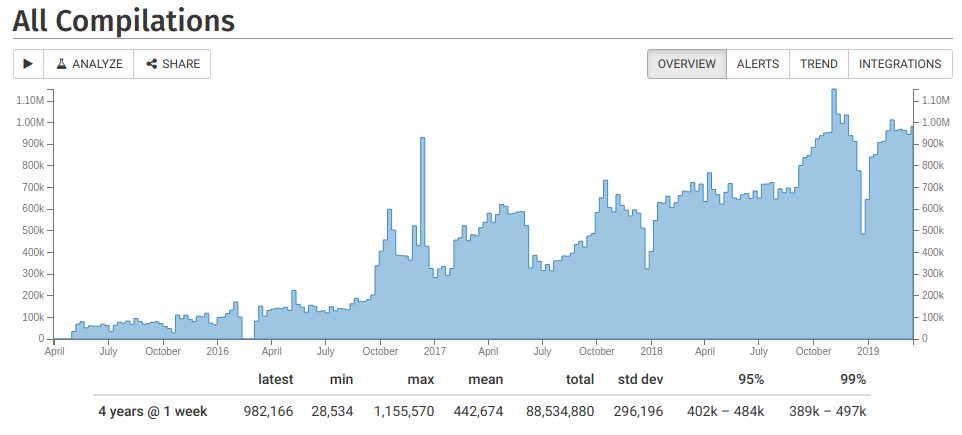
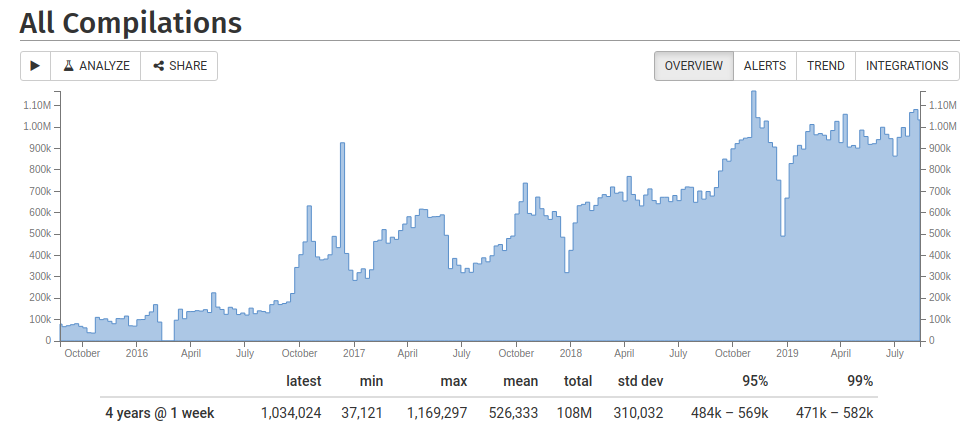
Beginning of work towards CppCon

Changed region(s): [[0.0, 0.0, 0.9979, 0.9954]]

diff --git a/index.html b/index.html
@@ -173,7 +173,7 @@
         }
 
         div.footer {
-            font-size: smaller;
+            font-size: 60%;
             font-style: italic;
             position: absolute;
             bottom: 1em;

diff --git a/intro.md b/intro.md
@@ -3,7 +3,7 @@
 
 * Intro & History
 * Assembly Primer
-* Top 5 Optimisations
+* Favourite Optimisations
 * Behind the Scenes
 * Stop and ask questions! <!-- .element: class="fragment" -->
 
@@ -14,23 +14,25 @@
 ## About me
 * Decade of making console games
 * Writing C++ tools
-* Google, YouTube mobile
+* Google, YouTube mobile</div><!-- .element: class="white-bg" -->
+
+
+<div>
+
+## Evolution: 2018
+
 * Finance
 * But then...<!-- .element: class="fragment" -->
 </div><!-- .element: class="white-bg" -->
 
 
 <div>
-## This happened...
 ![CE logo](images/CE.svg) <!-- .element: class="no-border stretch" -->
 </div><!-- .element: class="white-bg" -->
 
 
 <div>
 ## Origin Story
-
-* In 2012 I worked in low-latency trading
-* "Discussing" c++0x features<!-- .element: class="fragment" -->
 
 ```bash
 watch "g++ /tmp/test.cc -std=c++0x -O2 -c -S -o - -masm=intel \
@@ -64,28 +66,21 @@ watch "g++ /tmp/test.cc -std=c++0x -O2 -c -S -o - -masm=intel \
 
 <div>
 
-## Evolution
-* 2012
+## Evolution: 2012-2014
   * Colouration & filtering
-  * D language support
-* 2013
-  * Battle hardening
   * More compilers
-* 2014
-  * goo.gl short links
+  * D language support
   * Rust support
+  * goo.gl short links
 
 </div><!-- .element: class="white-bg" -->
 
 
 <div>
 
-## Evolution
-* 2015
+## Evolution: 2015-2017
   * Binary support
-* 2016
   * GoldenLayout
-* 2017
   * Monaco
   * Libraries
 </div><!-- .element: class="white-bg" -->
@@ -93,34 +88,42 @@ watch "g++ /tmp/test.cc -std=c++0x -O2 -c -S -o - -masm=intel \
 
 <div>
 
-## Evolution
-* 2018
+## Evolution: 2018
   * Unified languages
   * MS compilers
   * Tools windows
-* 2019
-  * Bug fixes
-  * Cache improvements
-  * 6502 support!
+
 </div><!-- .element: class="white-bg" -->
 
 
 <div>
 
-## Evolution
+## Evolution: 2019
+  * 6502 support! <!-- .element: class="fragment" -->
+  * Code execution! <!-- .element: class="fragment" -->
+  
+</div><!-- .element: class="white-bg" -->
 
-* Tools:
+
+<div>
+
+## Evolution: Tools
   * `clang-tidy`
   * `llvm-mca`
   * `pahole`
-* Views
-  * `opt` output
-  * clang AST & IR
-  * gcc Tree & IR
-  * control flow graph
+  * `clang-query`
+  * `readelf`
+  * `x86-to-6502`
 
 </div><!-- .element: class="white-bg" -->
 
 
-## How do _you_ use Compiler Explorer?
-<!-- .element: class="white-bg" -->
+<div>
+
+## Evolution : Views
+  * `opt` output
+  * clang AST & IR
+  * gcc Tree & IR
+  * Control flow graph
+
+</div><!-- .element: class="white-bg" -->

diff --git a/best5.md b/best5.md
@@ -1,8 +1,8 @@
-## Top 5 Compiler Optimisations
+## Favourite Optimisations
 <!-- .element: class="white-bg" -->
 
 
-### 1. Division by a constant
+### Division by a constant
 
 ```cpp
 unsigned divideXbyY(unsigned x, unsigned y)
@@ -12,7 +12,7 @@ unsigned divideXbyY(unsigned x, unsigned y)
 ```
 
 
-### 2. Counting set bits
+### Counting set bits
 
 ```cpp
 int countSetBits(unsigned a)
@@ -29,7 +29,7 @@ int countSetBits(unsigned a)
 ```
 
 
-### 3. Chained conditionals
+### Chained conditionals
 
 ```cpp
 bool isspc(char c)
@@ -52,7 +52,7 @@ bool isspc(char c)
 ```
 
 
-### 4. Summation
+### Summation
 
 ```cpp
 
@@ -68,7 +68,7 @@ int sumToX(int x)
 ```
 
 
-## 5. Devirtualisation
+## Devirtualisation
 
 ```cpp
 /// g82:-O3 -march=haswell -fno-tree-vectorize

diff --git a/Notes.md b/Notes.md
@@ -2,10 +2,19 @@
 
 ## Readying for CppCon
 
-* update stats for up-to-date
+* update stats for up-to-date - done
 * add a section on "power features of CE":
   * execution, new pane as well as normal
   * Herb surprised by #include URL and mouse-over asm
+
+So, what features to showcase?
+* multiview, stacking windows?
+* diff view
+* pahole
+* llvm-mca
+* mouse over
+* `#include` URLs
+* GCC and clang tree/RTL viewer
 
 ## From first presentation April 2019
 

diff --git a/conclusion.md b/conclusion.md
@@ -5,7 +5,7 @@
 * Learned so much
 * Doors opened
 * C++ community is amazing
-  * Thank you Rubén, Partouf, Chedy, Jared...
+  * Thank you Rubén, Partouf, Austin, Chedy, Jared...
 </div><!-- .element: class="white-bg" -->
 
 

diff --git a/behind.md b/behind.md
@@ -31,7 +31,7 @@
 
 ## CE stats
 
-* 950k compiles per week
+* 1,000,000 compiles per week
 * 1.5/sec average
 * 4/sec peak
 * 3000 short URLs/week
